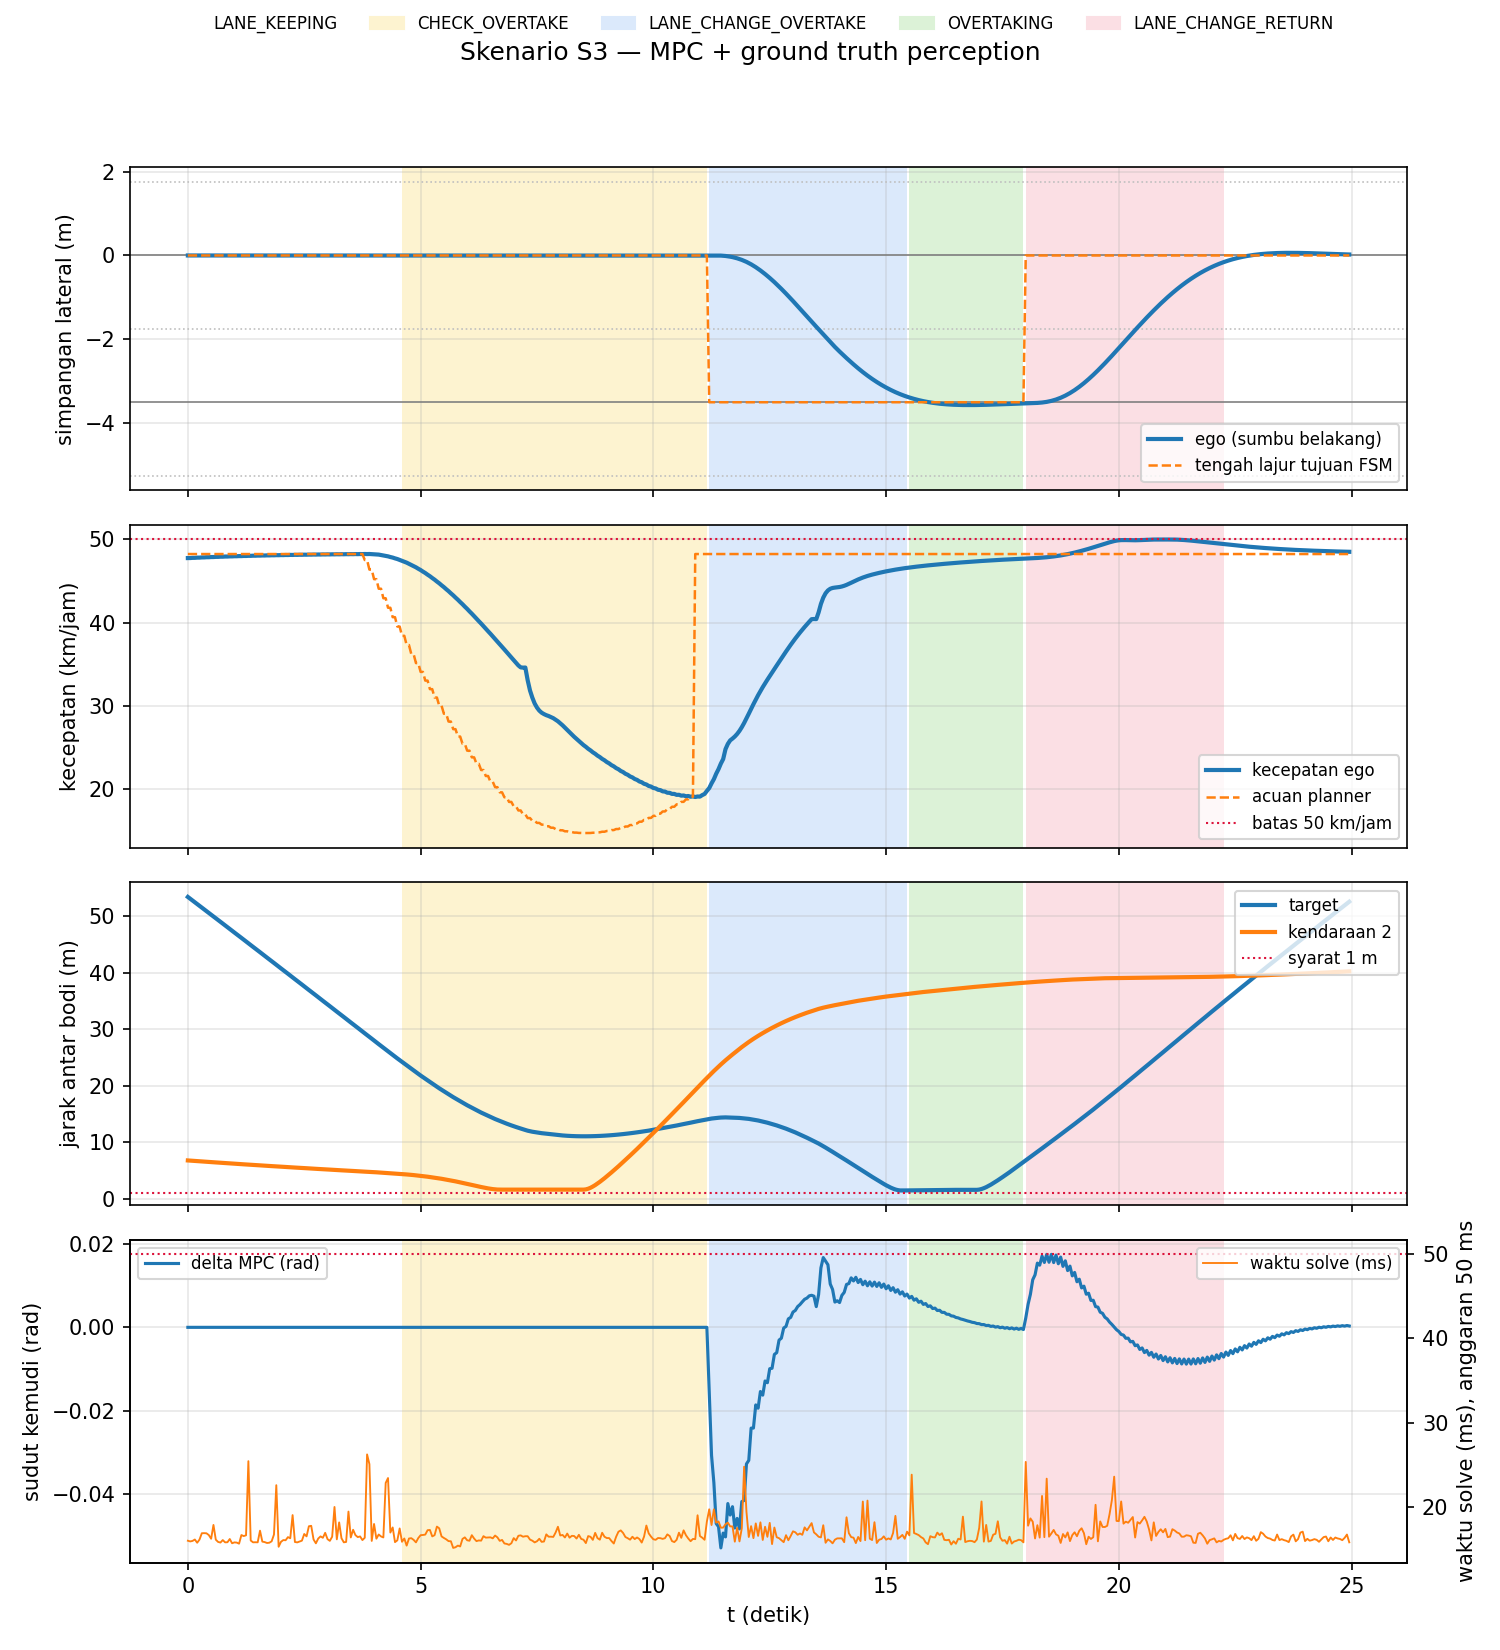
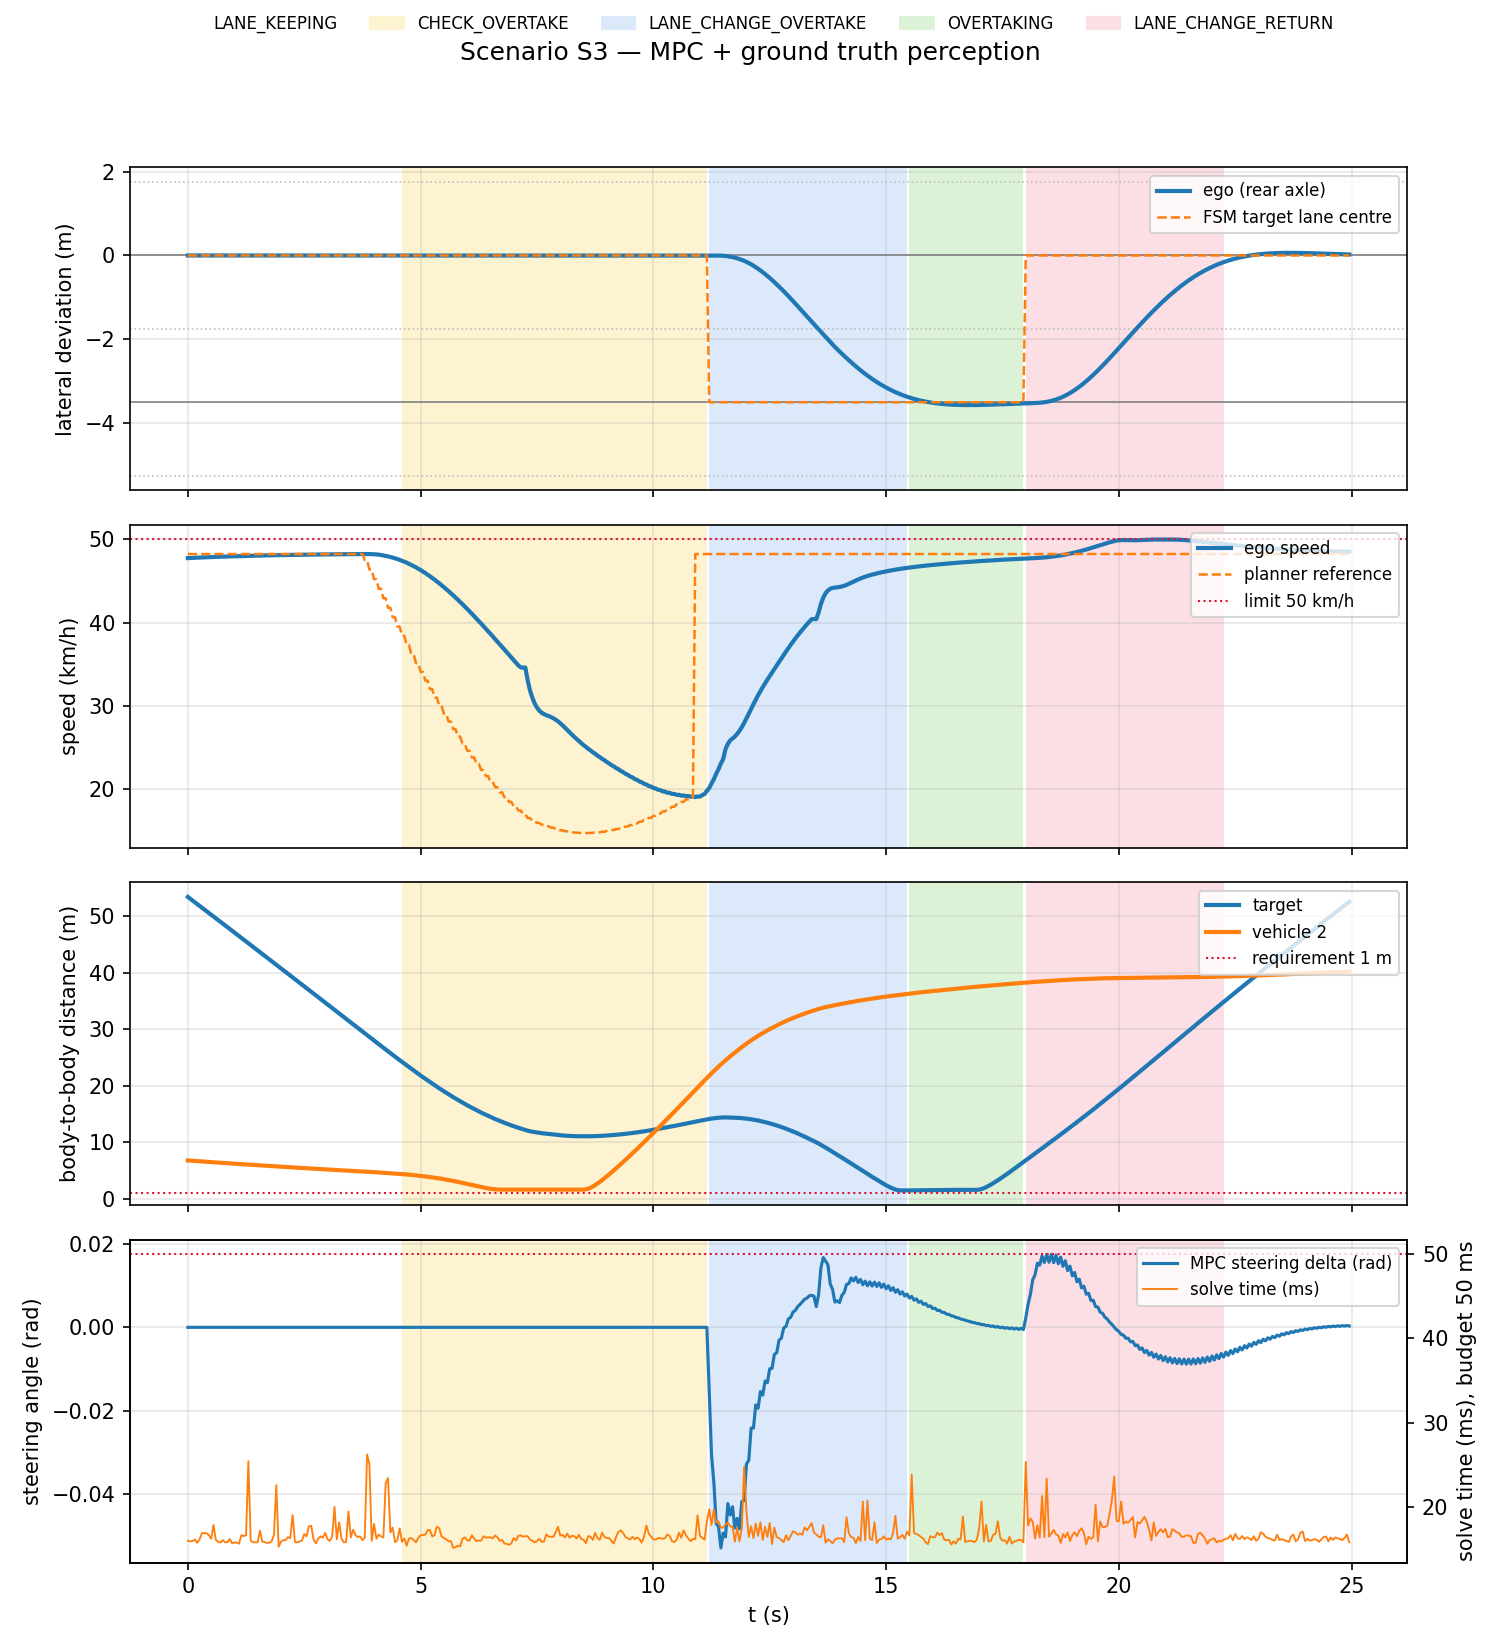
refactor: rename files to English and put every plot legend top right
Nama berkas:
  cek_deteksi.py      -> check_detection.py
  cek_estimasi.py     -> check_estimation.py
  cek_sensor.py       -> check_sensors.py
  eksperimen.py       -> experiment.py
  gambar.py           -> overlay.py
  metrik_fase.py      -> metrics.py
  plot_banding.py     -> plot_compare.py
  tuning_vision.py    -> tune_vision.py
  tests/test_arsitektur.py -> tests/test_architecture.py
  CATATAN.md          -> NOTES.md
  RANGKUMAN_PENULISAN.md -> WRITING_SUMMARY.md

Berkas keluaran ikut: banding_s1.png -> compare_s1.png, deteksi_*_lajur* ->
detection_*_lane*, eksperimen_s1_*.npz -> experiment_s1_*.npz, ambang_ttc.png ->
ttc_threshold.png, kenapa_450_derajat.png -> why_q_psi_450.png, mpc_konsep.png ->
mpc_concept.png, cek_estimasi.npz -> check_estimation.npz.

Seluruh rujukan diperbarui: impor (main -> overlay, experiment -> tune_vision),
nama keluaran yang dibangun di dalam kode, pola .gitignore, dan rujukan silang
di keempat dokumen.

Label grafik seluruhnya bahasa Inggris dan setiap legend dipindah ke kanan atas.
Panel keempat plot_run.py punya dua sumbu; legend-nya DIGABUNG jadi satu, karena
dua legend di sudut yang sama akan saling menimpa.

Gambar dibangkitkan ulang. Uji tetap 91 lolos dan seluruh modul masih terimpor.

diff --git a/plot_run.py b/plot_run.py
@@ -55,35 +55,38 @@ def main():
     ax[0].axhline(config.SIDE_SIGN * config.LANE_WIDTH, color='0.5', lw=.8)
     for tepi in (0.5, -0.5, -1.5):
         ax[0].axhline(tepi * config.LANE_WIDTH, color='0.75', ls=':', lw=.8)
-    ax[0].plot(t, y, lw=2, label='ego (sumbu belakang)')
-    ax[0].plot(t, L[:, k['y_goal']], '--', lw=1.2, label='tengah lajur tujuan FSM')
-    ax[0].set_ylabel('simpangan lateral (m)'); ax[0].legend(loc='lower right', fontsize=8)
+    ax[0].plot(t, y, lw=2, label='ego (rear axle)')
+    ax[0].plot(t, L[:, k['y_goal']], '--', lw=1.2, label='FSM target lane centre')
+    ax[0].set_ylabel('lateral deviation (m)'); ax[0].legend(loc='upper right', fontsize=8)
 
-    ax[1].plot(t, L[:, k['v']] * 3.6, lw=2, label='kecepatan ego')
-    ax[1].plot(t, L[:, k['v_goal']] * 3.6, '--', lw=1.2, label='acuan planner')
-    ax[1].axhline(config.V_MAX * 3.6, color='crimson', ls=':', lw=1, label='batas 50 km/jam')
-    ax[1].set_ylabel('kecepatan (km/jam)'); ax[1].legend(loc='lower right', fontsize=8)
+    ax[1].plot(t, L[:, k['v']] * 3.6, lw=2, label='ego speed')
+    ax[1].plot(t, L[:, k['v_goal']] * 3.6, '--', lw=1.2, label='planner reference')
+    ax[1].axhline(config.V_MAX * 3.6, color='crimson', ls=':', lw=1, label='limit 50 km/h')
+    ax[1].set_ylabel('speed (km/h)'); ax[1].legend(loc='upper right', fontsize=8)
 
     for i in range(pos.shape[1]):
         d = evaluation.jarak_kotak(pos[:, i, 0] - xc, pos[:, i, 1] - yc,
                                    f['dim_ego'], f['dim_kendaraan'][i], yaw, pos[:, i, 2])
-        ax[2].plot(t, d, lw=2, label='target' if i == 0 else f'kendaraan {i + 1}')
+        ax[2].plot(t, d, lw=2, label='target' if i == 0 else f'vehicle {i + 1}')
     ax[2].axhline(config.JARAK_AMAN, color='crimson', ls=':', lw=1,
-                  label=f'syarat {config.JARAK_AMAN:.0f} m')
-    ax[2].set_ylabel('jarak antar bodi (m)'); ax[2].legend(loc='upper right', fontsize=8)
+                  label=f'requirement {config.JARAK_AMAN:.0f} m')
+    ax[2].set_ylabel('body-to-body distance (m)'); ax[2].legend(loc='upper right', fontsize=8)
 
-    ax[3].plot(t, L[:, k['delta_cmd']], lw=1.5, label='delta MPC (rad)')
+    ax[3].plot(t, L[:, k['delta_cmd']], lw=1.5, label='MPC steering delta (rad)')
     ax3b = ax[3].twinx()
-    ax3b.plot(t, L[:, k['solve_ms']], color='tab:orange', lw=.9, label='waktu solve (ms)')
+    ax3b.plot(t, L[:, k['solve_ms']], color='tab:orange', lw=.9, label='solve time (ms)')
     ax3b.axhline(config.FIXED_DELTA_SECONDS * 1e3, color='crimson', ls=':', lw=1)
-    ax3b.set_ylabel('waktu solve (ms), anggaran 50 ms')
-    ax[3].set_ylabel('sudut kemudi (rad)'); ax[3].set_xlabel('t (detik)')
-    ax[3].legend(loc='upper left', fontsize=8); ax3b.legend(loc='upper right', fontsize=8)
+    ax3b.set_ylabel('solve time (ms), budget 50 ms')
+    ax[3].set_ylabel('steering angle (rad)'); ax[3].set_xlabel('t (s)')
+    # Dua sumbu, SATU legend: keduanya di kanan atas akan saling menimpa.
+    g1, l1 = ax[3].get_legend_handles_labels()
+    g2, l2 = ax3b.get_legend_handles_labels()
+    ax3b.legend(g1 + g2, l1 + l2, loc='upper right', fontsize=8)
 
     fig.legend(handles=[plt.Rectangle((0, 0), 1, 1, color=w) for w in WARNA.values()],
                labels=list(WARNA), loc='upper center', ncol=5, fontsize=8, frameon=False)
     nama_p = 'ground truth perception' if args.perception == 'gt' else 'vision perception (YOLOPX + depth)'
-    fig.suptitle(f'Skenario {args.skenario} — MPC + {nama_p}', y=0.975)
+    fig.suptitle(f'Scenario {args.skenario} — MPC + {nama_p}', y=0.975)
     fig.tight_layout(rect=(0, 0, 1, 0.945))
     keluar = os.path.join(config.OUT_DIR, f'run_{sk}_mpc_{args.perception}.png')
     fig.savefig(keluar, dpi=150)

diff --git a/plot_compare.py b/plot_compare.py
@@ -2,7 +2,7 @@
 
 Dibaca dari log mentah; tidak perlu menjalankan ulang simulasi.
 
-    python plot_banding.py                  # S1 -> out/banding_s1.png
+    python plot_compare.py                  # S1 -> out/compare_s1.png
 """
 import argparse
 import os
@@ -49,20 +49,20 @@ def main():
     ax[0].axhline(config.SIDE_SIGN * config.LANE_WIDTH, color='0.5', lw=.8)
     for tepi in (0.5, -0.5, -1.5):
         ax[0].axhline(tepi * config.LANE_WIDTH, color='0.75', ls=':', lw=.8)
-    ax[0].set_ylabel('simpangan lateral (m)')
+    ax[0].set_ylabel('lateral deviation (m)')
 
-    ax[1].axhline(config.V_MAX * 3.6, color='crimson', ls=':', lw=1, label='batas 50 km/jam')
-    ax[1].set_ylabel('kecepatan (km/jam)')
+    ax[1].axhline(config.V_MAX * 3.6, color='crimson', ls=':', lw=1, label='limit 50 km/h')
+    ax[1].set_ylabel('speed (km/h)')
 
     ax[2].axhline(config.JARAK_AMAN, color='crimson', ls=':', lw=1.2,
-                  label=f'syarat lulus {config.JARAK_AMAN:.0f} m')
-    ax[2].set_ylabel('jarak antar bodi (m)')
+                  label=f'pass criterion {config.JARAK_AMAN:.0f} m')
+    ax[2].set_ylabel('body-to-body distance (m)')
     # Dipotong ke 12 m: yang perlu terbaca adalah daerah kritis dekat syarat
     # 1,0 m, bukan 68 m saat kedua kendaraan masih berjauhan.
     ax[2].set_ylim(0, 12)
 
-    ax[3].set_ylabel('kandidat planner lolos')
-    ax[3].set_xlabel('t (detik)')
+    ax[3].set_ylabel('feasible planner candidates')
+    ax[3].set_xlabel('t (s)')
     ax[3].set_ylim(-0.4, 9.6)
 
     for m, g in GAYA.items():
@@ -80,16 +80,16 @@ def main():
                        fontsize=9, fontweight='bold',
                        arrowprops=dict(arrowstyle='->', color=warna, lw=1))
         nol = int((x['n_layak'] == 0).sum())
-        ax[3].annotate(f'{nol} tick tanpa kandidat', (0.99, 0.30 + 0.16 * (m == 'gt')),
+        ax[3].annotate(f'{nol} ticks with no candidate', (0.99, 0.30 + 0.16 * (m == 'gt')),
                        xycoords='axes fraction', ha='right', color=warna, fontsize=9)
 
-    ax[0].legend(loc='lower right', fontsize=9)
+    ax[0].legend(loc='upper right', fontsize=9)
     for a in ax[1:3]:
-        a.legend(loc='lower right', fontsize=8)
-    fig.suptitle(f'Skenario {args.skenario} — pengaruh sumber perception terhadap hasil kendali',
+        a.legend(loc='upper right', fontsize=8)
+    fig.suptitle(f'Scenario {args.skenario} — effect of the perception source on control',
                  y=0.985)
     fig.tight_layout(rect=(0, 0, 1, 0.97))
-    keluar = os.path.join(config.OUT_DIR, f'banding_{sk}.png')
+    keluar = os.path.join(config.OUT_DIR, f'compare_{sk}.png')
     fig.savefig(keluar, dpi=150)
     print(f'Grafik: {keluar}')
 

diff --git a/metrics.py b/metrics.py
@@ -6,9 +6,9 @@ angka gabungan karena itu mengukur hal lain daripada yang disangka. Modul ini
 memisahkannya per fase FSM, dan memisahkan LANE_KEEPING sebelum manuver dari
 LANE_KEEPING sesudahnya -- dua hal yang sangat berbeda meski namanya sama.
 
-    python metrik_fase.py                       # per fase, dari log run tunggal
-    python metrik_fase.py --eksperimen          # per fase, seluruh ulangan Tahap 9
-    python metrik_fase.py --layer --eksperimen  # dikelompokkan per layer arsitektur
+    python metrics.py                       # per fase, dari log run tunggal
+    python metrics.py --eksperimen          # per fase, seluruh ulangan Tahap 9
+    python metrics.py --layer --eksperimen  # dikelompokkan per layer arsitektur
 """
 import argparse
 
@@ -154,7 +154,7 @@ def main_():
 
     if args.layer:
         for mode in ('gt', 'vision'):
-            pola = (f'{config.OUT_DIR}/eksperimen_s1_{mode}.npz' if args.eksperimen
+            pola = (f'{config.OUT_DIR}/experiment_s1_{mode}.npz' if args.eksperimen
                     else f'{config.OUT_DIR}/run_s1_mpc_{mode}.npz')
             try:
                 d = np.load(pola, allow_pickle=True)
@@ -174,7 +174,7 @@ def main_():
                     print(f'    {nama:<40}{v.mean():>12.4g}{tail}')
         return
     for mode in ('gt', 'vision'):
-        pola = (f'{config.OUT_DIR}/eksperimen_s1_{mode}.npz' if args.eksperimen
+        pola = (f'{config.OUT_DIR}/experiment_s1_{mode}.npz' if args.eksperimen
                 else f'{config.OUT_DIR}/run_s1_mpc_{mode}.npz')
         try:
             d = np.load(pola, allow_pickle=True)
@@ -184,7 +184,7 @@ def main_():
         kolom = list(d['kolom'])
         if args.eksperimen:
             if 'log' not in d:
-                print(f'\n{pola} tidak memuat log mentah -- jalankan ulang eksperimen.py')
+                print(f'\n{pola} tidak memuat log mentah -- jalankan ulang experiment.py')
                 continue
             per_run = [metrik(d['log'][i], d['fsm_state'][i], kolom)
                        for i in range(len(d['log']))]

diff --git a/experiment.py b/experiment.py
@@ -4,8 +4,8 @@ Mengulang satu konfigurasi N kali dan melaporkan success rate berikut sebaran
 tiap metrik. Kriteria lulus ditetapkan di `config` SEBELUM eksperimen dijalankan
 (bagian 11.2), jadi vonisnya tidak subjektif.
 
-    python eksperimen.py --perception gt --ulang 5
-    python eksperimen.py --perception vision --ulang 10
+    python experiment.py --perception gt --ulang 5
+    python experiment.py --perception vision --ulang 10
 
 Berapa ulangan yang perlu berbeda menurut mode:
 
@@ -27,7 +27,7 @@ import numpy as np
 import config
 import main
 import simulation
-import tuning_vision
+import tune_vision
 import yolopx
 
 METRIK = [('jarak_min', 'jarak min antar bodi [m]', '{:.3f}'),
@@ -59,7 +59,7 @@ def main_():
               f'{"nol kand":>10}{"solve rata":>12}{"solve maks":>12}{"gagal":>7}{"detik":>8}')
         for i in range(args.ulang):
             t0 = time.time()
-            m = tuning_vision.sekali(world, net, params, ref, ref5)
+            m = tune_vision.sekali(world, net, params, ref, ref5)
             hasil.append(m)
             print(f'{i + 1:>4}{m["vonis"]:>10}{m["jarak_min"]:>11.3f}{m["durasi"]:>8.2f}'
                   f'{m["lateral"]:>9.3f}{m["nol_kandidat"]:>10d}{m["solve_rata"]:>12.2f}'
@@ -88,7 +88,7 @@ def main_():
     # cukup: metrik bab 4 baru didefinisikan saat menulis, dan bagian 15.5
     # menunjukkan metrik yang tampak wajar bisa mengukur hal lain -- tanpa data
     # mentah, mendefinisikan ulang berarti menjalankan ulang seluruh eksperimen.
-    jalur = f'{config.OUT_DIR}/eksperimen_s1_{args.perception}.npz'
+    jalur = f'{config.OUT_DIR}/experiment_s1_{args.perception}.npz'
     np.savez(jalur, **{k: np.array([m[k] for m in hasil]) for k, _, _ in METRIK},
              vonis=np.array([m['vonis'] for m in hasil]),
              gagal_solver=np.array([m['gagal_solver'] for m in hasil]),

diff --git a/check_detection.py b/check_detection.py
@@ -4,8 +4,8 @@ Kendaraan target ditaruh pada beberapa jarak di depan ego, lalu tiap frame dinil
 apakah target terdeteksi, berapa positif palsu, dan seberapa tepat jarak yang
 dibaca dari depth camera. Angka pelatihan tidak dipakai -- split-nya masih bocor.
 
-    python cek_deteksi.py                      # sapuan jarak, lajur ego
-    python cek_deteksi.py --lajur 1            # target di lajur menyalip
+    python check_detection.py                      # sapuan jarak, lajur ego
+    python check_detection.py --lajur 1            # target di lajur menyalip
 """
 import argparse
 import json
@@ -149,7 +149,7 @@ def main_():
                         if gt is not None:
                             cv2.rectangle(gambar, (int(gt[0]), int(gt[1])), (int(gt[2]), int(gt[3])),
                                           (255, 255, 255), 1)
-                        jalur = f'{config.OUT_DIR}/deteksi_{jarak}m_lajur{args.lajur}{args.tag}.png'
+                        jalur = f'{config.OUT_DIR}/detection_{jarak}m_lane{args.lajur}{args.tag}.png'
                         cv2.imwrite(jalur, gambar)
                         print(f'       gambar -> {jalur}')
                     target.destroy()

diff --git a/config.py b/config.py
@@ -95,10 +95,10 @@ KAMERA_BASELINE = 0.54              # m, jarak kamera warna kiri-kanan
 YOLOPX_DIR = os.path.join(os.path.dirname(os.path.dirname(os.path.abspath(__file__))), 'YOLOPX')
 # best.pth = hasil fine-tuning penulis ke domain CARLA (epoch 263, mAP50 0,991).
 # epoch-195.pth = weight resmi YOLOPX hasil latihan BDD100K, dipakai sebagai titik
-# awal fine-tuning dan sebagai pembanding domain di cek_deteksi.py --weight.
+# awal fine-tuning dan sebagai pembanding domain di check_detection.py --weight.
 YOLOPX_WEIGHT = os.path.join(os.path.dirname(YOLOPX_DIR), 'weights', 'best.pth')
 YOLOPX_WEIGHT_BDD = os.path.expanduser('~/sawal/data_acquisition/epoch-195.pth')
-DETEKSI_CONF = 0.5                  # ambang keyakinan; ditentukan cek_deteksi.py
+DETEKSI_CONF = 0.5                  # ambang keyakinan; ditentukan check_detection.py
 DETEKSI_IOU = 0.45                  # ambang NMS
 
 # Pelacakan antar frame (Tahap 8, bagian 10.3). Lihat docstring tracking.py.

diff --git a/tune_vision.py b/tune_vision.py
@@ -11,10 +11,10 @@ Yang disapu di sini justru yang TIDAK bisa disentuh step response: ambang FSM,
 bobot pemilihan kandidat planner, dan slack yang menengahi kenyamanan versus
 jarak aman.
 
-    python tuning_vision.py --sweep K_DEV 10,20,40
-    python tuning_vision.py --sweep MPC_RHO_LAT 20,50,200
-    python tuning_vision.py --sweep MPC_Q:1 20,60,150     # entri tuple, indeks 1
-    python tuning_vision.py                       # konfigurasi sekarang saja
+    python tune_vision.py --sweep K_DEV 10,20,40
+    python tune_vision.py --sweep MPC_RHO_LAT 20,50,200
+    python tune_vision.py --sweep MPC_Q:1 20,60,150     # entri tuple, indeks 1
+    python tune_vision.py                       # konfigurasi sekarang saja
 
 Parameter dibaca modul hilir lewat `config.<NAMA>` saat dipanggil, jadi cukup
 ditimpa di modul config sebelum run. Ego di-spawn ULANG tiap konfigurasi --

diff --git a/main.py b/main.py
@@ -18,7 +18,7 @@ import numpy as np
 import config
 import control
 import evaluation
-import gambar
+import overlay
 import localization
 import perception
 import planning
@@ -256,7 +256,7 @@ def main():
                 rig = sensors.RigKamera(world, ego, params)
                 print(f'vision: YOLOPX epoch {net.epoch}, {net.device}')
                 if args.rekam:
-                    perekam = gambar.Perekam(localization.PathFrame(ref), ref5)
+                    perekam = overlay.Perekam(localization.PathFrame(ref), ref5)
             elif args.rekam:
                 ap.error('--rekam butuh --perception vision')
             with evaluation.pantau_tabrakan(world, ego) as monitor:

diff --git a/check_estimation.py b/check_estimation.py
@@ -7,7 +7,7 @@ jarak menyapu 55 -> 10 m dalam satu run. Pembandingnya transform aktor dari
 simulator, bukan `GroundTruthPerception`; keluaran GT ikut diukur terhadap
 pembanding yang sama supaya acuannya sendiri ikut terverifikasi.
 
-    python cek_estimasi.py
+    python check_estimation.py
 """
 import json
 import math
@@ -78,7 +78,7 @@ def main_():
                     target.destroy()
 
     a = np.array(baris)
-    np.savez(f'{config.OUT_DIR}/cek_estimasi.npz', data=a)
+    np.savez(f'{config.OUT_DIR}/check_estimation.npz', data=a)
     t, benar, vis, g = a[:, 0], a[:, 1:5], a[:, 5:9], a[:, 9:13]
     ada = ~np.isnan(vis[:, 0])
 

diff --git a/tracking.py b/tracking.py
@@ -1,7 +1,7 @@
 """Pelacakan antar frame dan penapisan Kalman (rencana kerja bagian 10.3).
 
 Murni numerik: tidak mengimpor carla, torch, maupun cv2 -- bisa diuji di terminal
-tanpa menyalakan simulator (aturan 2.4, ditegakkan `tests/test_arsitektur.py`).
+tanpa menyalakan simulator (aturan 2.4, ditegakkan `tests/test_architecture.py`).
 
 **Kenapa perlu.** Satu frame kamera hanya memberi POSISI. Kecepatan halangan --
 yang dipakai FSM untuk TTC dan MPC untuk memprediksi elips sepanjang horizon --

diff --git a/simulation.py b/simulation.py
@@ -47,7 +47,7 @@ def tick(world, perintah=()):
     tick pertama, satu gagal lane_departure. Fisika CARLA sendiri deterministik.
 
     `apply_batch_sync` baru kembali setelah perintah diterapkan, jadi urutannya
-    terjamin: tiga run identik bit-per-bit. Ditegakkan tests/test_arsitektur.py.
+    terjamin: tiga run identik bit-per-bit. Ditegakkan tests/test_architecture.py.
     """
     if perintah:
         for r in _klien.apply_batch_sync(list(perintah), False):

diff --git a/check_sensors.py b/check_sensors.py
@@ -3,7 +3,7 @@
 Menyimpan satu frame RGB dan depth, lalu memeriksa tinggi dan posisi memanjang
 kamera yang BENAR-BENAR terjadi di simulator, bukan yang diminta.
 
-    python cek_sensor.py
+    python check_sensors.py
 """
 import json
 
